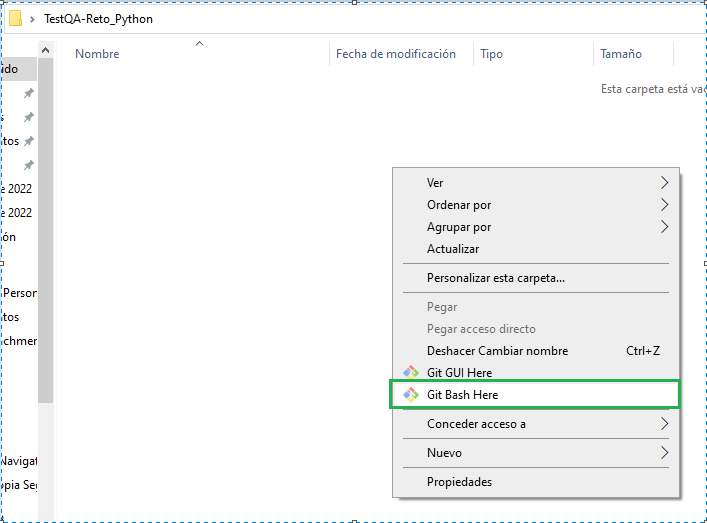
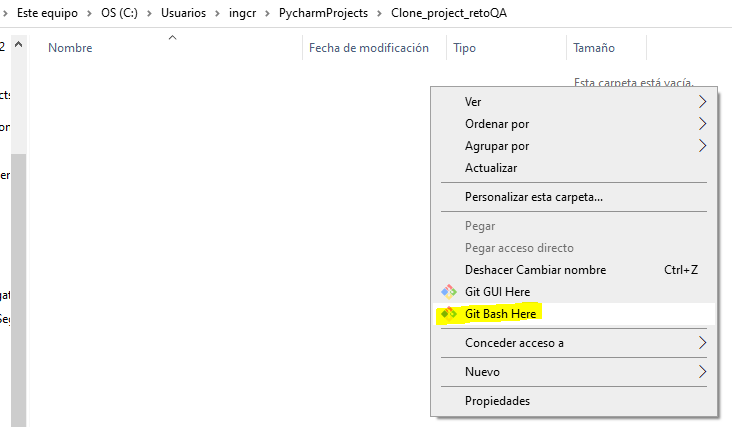
Ajuste - README

diff --git a/README.md b/README.md
@@ -17,18 +17,40 @@
        https://github.com/CristianHdezZ/RetoQA_SwagLabs_saucedemo_PythonSeleniumBehave
    ![img.png](resource/img_3.png)
    
+   - Crear una nueva carpeta en la dirección que crea PyCharm por defecto para sus proyectos. En mi caso es la siguiente la ruta cambiara, dependiendo el nombre de user que se tenga en la pc:
+            
+    - C:\Users\ingcr\PycharmProjects
 
-   - Abril la terminal git en un directorio de su preferencia:
+![img.png](resource/img_10.png)
 
-   ![img_1.png](resource/img_4.png)
+ - Nombre de la nueva carpeta: 
+        
+        - Clone_project_retoQA
+
+![img.png](resource/img_11.png)    
+
+- Entrar a la nueva carpeta (Clone_project_retoQA) 
+
+        - C:\Users\ingcr\PycharmProjects\Clone_project_retoQA
+
+
+
+   - Abril la terminal git desde el directorio de la nueva carpeta(Clone_project_retoQA):
+    
+
+![img.png](resource/img_4.png)
+   
 
    - En la terminal de git, pegar la siguiente sentencia:
    
          git clone https://github.com/CristianHdezZ/RetoQA_SwagLabs_saucedemo_PythonSeleniumBehave.git
-   ![img.png](resource/img_5.png)
-   ![img.png](resource/img_6.png)
+
+
+![img.png](resource/img_5.png)   
+![img.png](resource/img_6.png)
    
-   - Abril PyCharm y abril el proyecto
+   
+   - Abril PyCharm y crear un nuevo proyecto
 
    ![img.png](resource/img_7.png)
    ![img.png](resource/img_8.png)
@@ -60,7 +82,7 @@
 
 **5. Y finalmente ejecutamos desde la terminal con la siguiente sentencia:**
 
-         behave tests\features\saucedemo.feature
+    behave tests\features\saucedemo.feature
 
 
 **6. Features**
